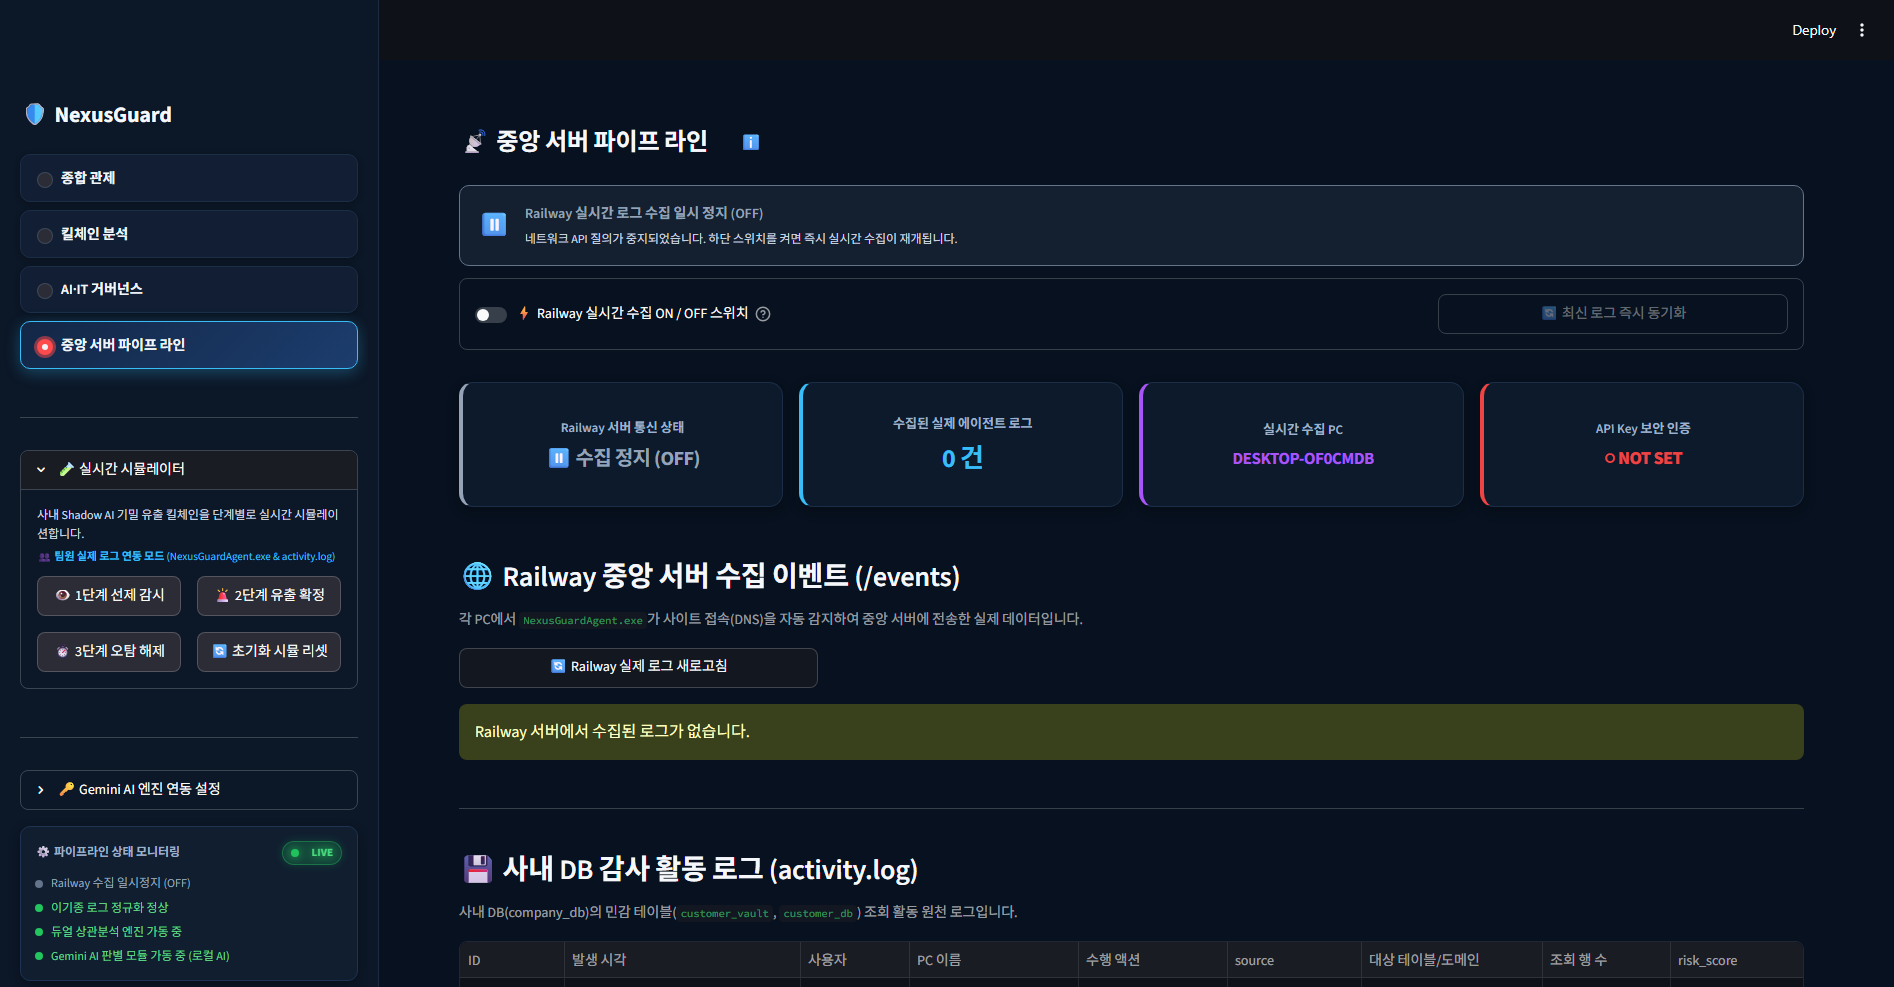
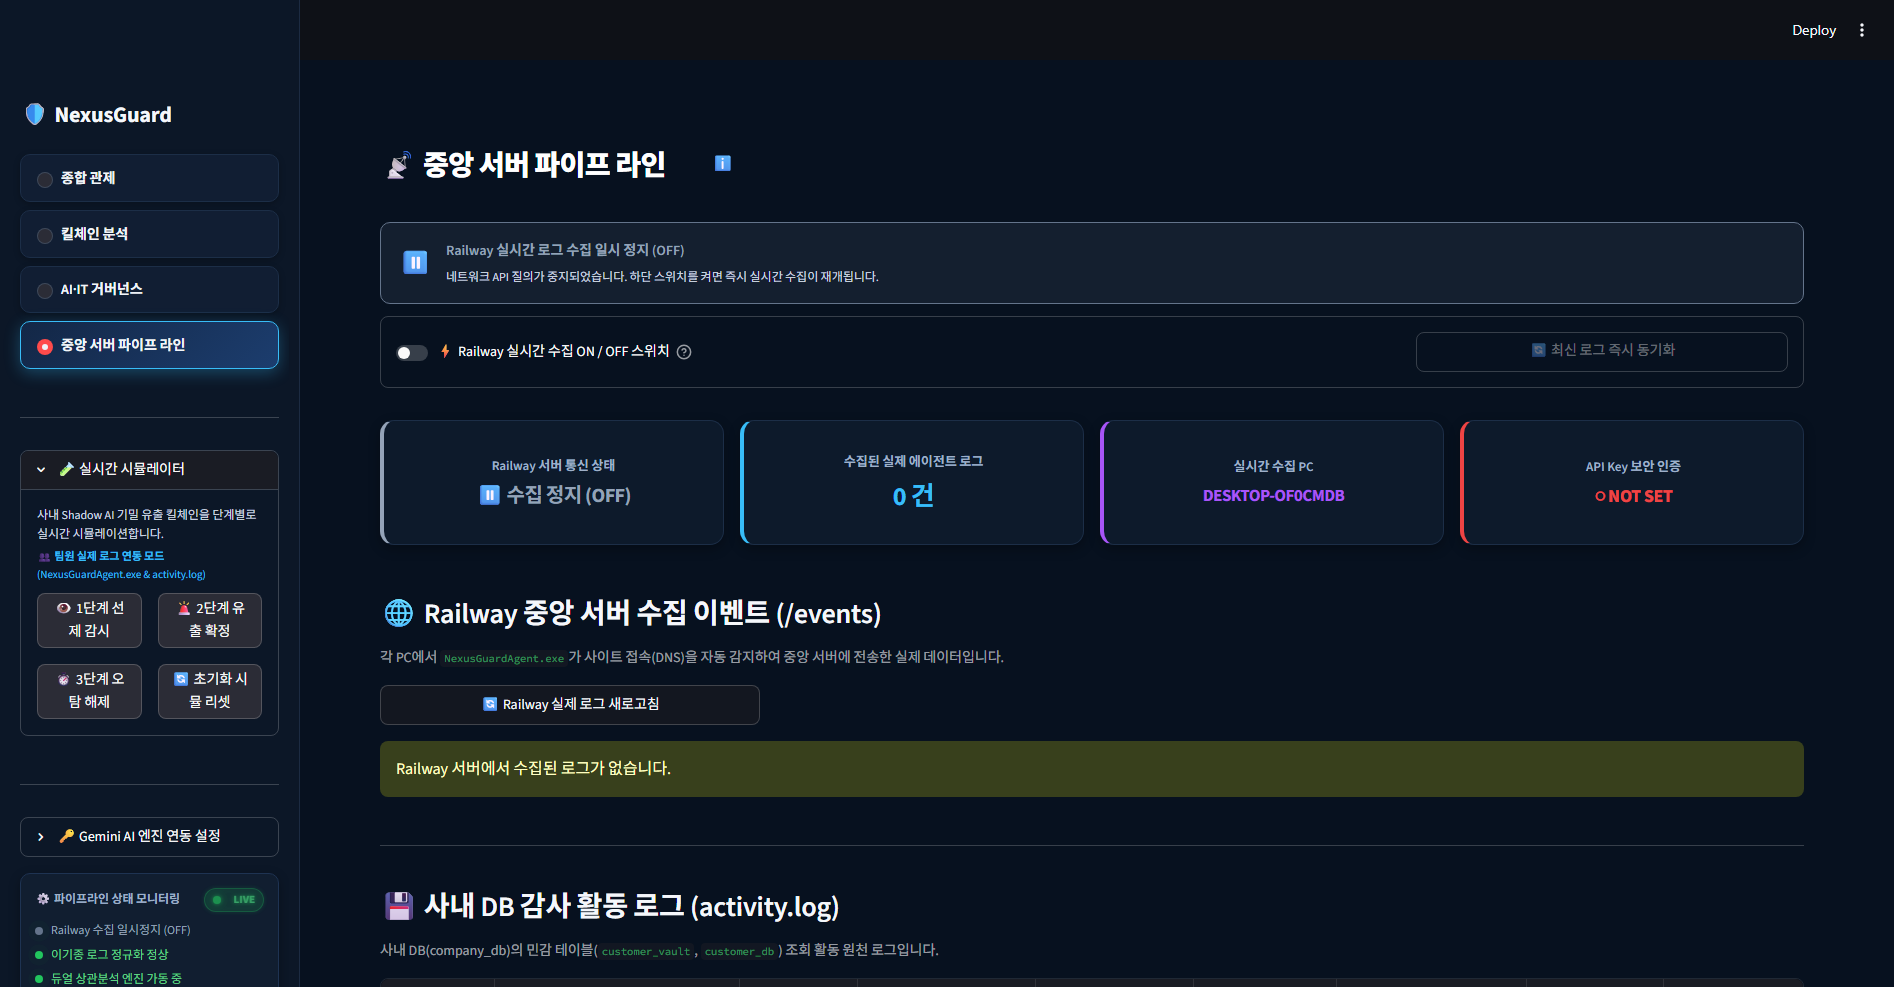
feat(ui): standardize page title sizes, smooth tooltip animations, and enable dynamic sidebar/main window resize

diff --git a/nexusguard/ui/app.py b/nexusguard/ui/app.py
@@ -38,14 +38,20 @@ st.markdown("""
         font-family: -apple-system, BlinkMacSystemFont, "Segoe UI", Roboto, Helvetica, Arial, sans-serif;
     }
     
-    /* 사이드바 */
+    /* 사이드바 기본 및 드래그 조절 반응형 스타일 */
     section[data-testid="stSidebar"] {
         background-color: #0c1727 !important;
         border-right: 1px solid #1c2b42 !important;
-        width: clamp(280px, 20vw, 380px) !important;
-        min-width: 260px !important;
-        max-width: 420px !important;
-        transition: width 0.2s ease-in-out !important;
+        min-width: 240px;
+        max-width: 750px;
+        position: relative;
+    }
+    /* 사이드바 접힘(Collapsed) 시 완벽 숨김 및 메인 창 100% 확장 보장 */
+    section[data-testid="stSidebar"][aria-expanded="false"] {
+        min-width: 0px !important;
+        max-width: 0px !important;
+        width: 0px !important;
+        transform: translateX(-100%) !important;
     }
 
     /* 🌟 사이드바 라디오 네비게이션 가로 100% 꽉 채우기 및 창 크기 반응형 */
@@ -239,16 +245,37 @@ st.markdown("""
         background-color: transparent !important;
         border: none !important;
     }
-    /* Dashboard 제목 호버 툴팁 */
+    /* =================================================== */
+    /* 🌟 모든 페이지 타이틀 헤더 규격 통일 (28px) */
+    /* =================================================== */
+    .nexus-page-title-box {
+        position: relative;
+        display: inline-flex;
+        align-items: center;
+        gap: 12px;
+        margin-bottom: 22px;
+        cursor: pointer;
+    }
+    .nexus-page-title {
+        margin: 0 !important;
+        font-size: 28px !important;
+        font-weight: 800 !important;
+        color: #ffffff !important;
+        letter-spacing: -0.5px !important;
+        line-height: 1.3 !important;
+        display: flex !important;
+        align-items: center !important;
+        gap: 10px !important;
+    }
     .dashboard-title-box {
         position: relative;
         display: inline-block;
-        margin-bottom: 20px;
+        margin-bottom: 22px;
         cursor: pointer;
     }
     .dashboard-title {
         margin: 0;
-        font-size: 38px;
+        font-size: 28px !important;
         font-weight: 800;
         color: #ffffff;
         letter-spacing: -0.5px;
@@ -262,7 +289,8 @@ st.markdown("""
         cursor: pointer;
         transition: color 0.2s;
     }
-    .dashboard-title-box:hover .dashboard-info-icon {
+    .dashboard-title-box:hover .dashboard-info-icon,
+    .nexus-page-title-box:hover .dashboard-info-icon {
         color: #38bdf8;
     }
     .dashboard-title-tooltip {
@@ -271,22 +299,29 @@ st.markdown("""
         position: absolute;
         top: calc(100% + 6px);
         left: 0;
-        background-color: #0c1c33;
+        background: rgba(12, 28, 51, 0.95) !important;
+        backdrop-filter: blur(12px) !important;
+        -webkit-backdrop-filter: blur(12px) !important;
         color: #93c5fd;
         font-size: 13px;
         font-weight: 500;
-        padding: 8px 16px;
+        padding: 9px 16px;
         border-radius: 8px;
         border: 1px solid #2563eb;
-        box-shadow: 0 10px 28px rgba(0, 0, 0, 0.8);
+        box-shadow: 0 12px 32px rgba(0, 0, 0, 0.75), 0 0 12px rgba(37, 99, 235, 0.25);
         white-space: nowrap;
         z-index: 9999;
-        transition: opacity 0.2s ease, visibility 0.2s ease;
+        transform: translateY(-4px) scale(0.98);
+        transition: opacity 0.24s cubic-bezier(0.16, 1, 0.3, 1),
+                    transform 0.24s cubic-bezier(0.16, 1, 0.3, 1),
+                    visibility 0.24s cubic-bezier(0.16, 1, 0.3, 1);
         pointer-events: none;
     }
-    .dashboard-title-box:hover .dashboard-title-tooltip {
+    .dashboard-title-box:hover .dashboard-title-tooltip,
+    .nexus-page-title-box:hover .dashboard-title-tooltip {
         visibility: visible;
         opacity: 1;
+        transform: translateY(0) scale(1);
     }
 
     /* 통합 인시던트 선택기 단일 박스 컨테이너 */
@@ -366,7 +401,7 @@ st.markdown("""
     }
 
     /* =================================================== */
-    /* 💬 마우스 커서 호버 시 팝업(Tooltip) 스타일 */
+    /* 💬 마우스 커서 호버 시 팝업(Tooltip) 부드러운 애니메이션 스타일 */
     /* =================================================== */
     .tooltip-container {
         position: relative;
@@ -378,32 +413,37 @@ st.markdown("""
         display: inline-flex;
         align-items: center;
         justify-content: center;
-        transition: transform 0.2s ease;
+        transition: transform 0.22s cubic-bezier(0.16, 1, 0.3, 1), filter 0.22s ease !important;
     }
     .tooltip-container:hover .tooltip-icon {
-        transform: scale(1.15);
+        transform: scale(1.18);
+        filter: drop-shadow(0 0 6px #38bdf8);
     }
     .tooltip-popup {
         visibility: hidden;
         opacity: 0;
         width: max-content;
-        max-width: 320px;
-        background: #0b1728;
+        max-width: 340px;
+        background: rgba(11, 23, 40, 0.95) !important;
+        backdrop-filter: blur(12px) !important;
+        -webkit-backdrop-filter: blur(12px) !important;
         color: #f1f5f9;
         text-align: left;
         border-radius: 8px;
-        padding: 10px 14px;
+        padding: 10px 15px;
         border: 1px solid #38bdf8;
-        box-shadow: 0 10px 28px rgba(0, 0, 0, 0.75);
-        font-size: 12px;
+        box-shadow: 0 12px 32px rgba(0, 0, 0, 0.75), 0 0 14px rgba(56, 189, 248, 0.25);
+        font-size: 12.5px;
         font-weight: 500;
         line-height: 1.5;
         position: absolute;
         z-index: 99999;
         bottom: 135%;
         left: 50%;
-        transform: translateX(-50%);
-        transition: opacity 0.22s ease-in-out, visibility 0.22s ease-in-out;
+        transform: translate(-50%, 6px) scale(0.96);
+        transition: opacity 0.24s cubic-bezier(0.16, 1, 0.3, 1),
+                    transform 0.24s cubic-bezier(0.16, 1, 0.3, 1),
+                    visibility 0.24s cubic-bezier(0.16, 1, 0.3, 1) !important;
         pointer-events: none;
     }
     .tooltip-popup::after {
@@ -419,6 +459,24 @@ st.markdown("""
     .tooltip-container:hover .tooltip-popup {
         visibility: visible;
         opacity: 1;
+        transform: translate(-50%, 0) scale(1);
+    }
+
+    /* Streamlit 내장 툴팁 (help=...) 부드러운 페이드인 애니메이션 */
+    div[data-baseweb="tooltip"] {
+        animation: smooth-tooltip-fade 0.22s cubic-bezier(0.16, 1, 0.3, 1) forwards !important;
+        backdrop-filter: blur(8px) !important;
+        border-radius: 8px !important;
+    }
+    @keyframes smooth-tooltip-fade {
+        0% {
+            opacity: 0;
+            transform: translateY(4px) scale(0.97);
+        }
+        100% {
+            opacity: 1;
+            transform: translateY(0) scale(1);
+        }
     }
 
     /* =================================================== */
@@ -674,6 +732,95 @@ st.markdown("""
     }
 </style>
 """, unsafe_allow_html=True)
+
+# 2-1. 사이드바 실시간 드래그 크기 조절 & 메인 창 동적 연동 핸들러 주입
+components.html("""
+<script>
+(function() {
+    const parentDoc = window.parent.document;
+    function setupResizer() {
+        const sidebar = parentDoc.querySelector('section[data-testid="stSidebar"]');
+        if (!sidebar) return;
+
+        // 이미 핸들이 주입되어 있다면 재등록 방지
+        if (sidebar.querySelector('#sidebar-drag-handle')) return;
+
+        const handle = parentDoc.createElement('div');
+        handle.id = 'sidebar-drag-handle';
+        handle.title = '좌우로 드래그하여 사이드바 및 메인 창 크기를 조절할 수 있습니다';
+        handle.style.cssText = `
+            position: absolute;
+            top: 0;
+            right: -3px;
+            width: 7px;
+            height: 100%;
+            cursor: col-resize;
+            z-index: 999999;
+            background: transparent;
+            transition: background 0.2s ease;
+        `;
+
+        handle.addEventListener('mouseenter', () => {
+            handle.style.background = 'rgba(56, 189, 248, 0.5)';
+        });
+        handle.addEventListener('mouseleave', () => {
+            if (!isDragging) handle.style.background = 'transparent';
+        });
+
+        let isDragging = false;
+        let startX = 0;
+        let startWidth = 0;
+
+        handle.addEventListener('mousedown', (e) => {
+            isDragging = true;
+            startX = e.clientX;
+            startWidth = sidebar.offsetWidth;
+            handle.style.background = '#38bdf8';
+            parentDoc.body.style.cursor = 'col-resize';
+            parentDoc.body.style.userSelect = 'none';
+            e.preventDefault();
+            e.stopPropagation();
+        });
+
+        parentDoc.addEventListener('mousemove', (e) => {
+            if (!isDragging) return;
+            const delta = e.clientX - startX;
+            const newWidth = Math.min(Math.max(startWidth + delta, 240), 750);
+            sidebar.style.setProperty('width', newWidth + 'px', 'important');
+            sidebar.style.setProperty('min-width', newWidth + 'px', 'important');
+            sidebar.style.setProperty('max-width', newWidth + 'px', 'important');
+            sidebar.style.setProperty('transition', 'none', 'important');
+            sessionStorage.setItem('nexusguard_sb_width', newWidth);
+        });
+
+        parentDoc.addEventListener('mouseup', () => {
+            if (isDragging) {
+                isDragging = false;
+                handle.style.background = 'transparent';
+                parentDoc.body.style.cursor = '';
+                parentDoc.body.style.userSelect = '';
+            }
+        });
+
+        sidebar.appendChild(handle);
+
+        // 이전 저장된 사이드바 폭 복원 (접힘 상태가 아닐 때만)
+        const saved = sessionStorage.getItem('nexusguard_sb_width');
+        const isCollapsed = sidebar.getAttribute('aria-expanded') === 'false';
+        if (saved && !isCollapsed) {
+            const w = Math.min(Math.max(parseInt(saved, 10), 240), 750);
+            sidebar.style.setProperty('width', w + 'px', 'important');
+            sidebar.style.setProperty('min-width', w + 'px', 'important');
+            sidebar.style.setProperty('max-width', w + 'px', 'important');
+        }
+    }
+
+    setupResizer();
+    const observer = new MutationObserver(setupResizer);
+    observer.observe(parentDoc.body, { childList: true, subtree: true });
+})();
+</script>
+""", height=0, width=0)
 
 # 3. 툴팁 헬퍼 함수
 def tooltip(icon: str, title: str, desc: str) -> str:
@@ -1683,9 +1830,9 @@ def render_interactive_map(svg_markup: str):
 
 if menu == "종합 관제":
     st.markdown("""
-    <div class="dashboard-title-box">
-        <h1 class="dashboard-title">
-            Dashboard <span class="dashboard-info-icon" title="마우스를 올리면 시스템 설명이 표시됩니다">ℹ</span>
+    <div class="nexus-page-title-box">
+        <h1 class="nexus-page-title">
+            🛡 종합 관제 (Dashboard) <span class="dashboard-info-icon" title="마우스를 올리면 시스템 설명이 표시됩니다">ℹ</span>
         </h1>
         <div class="dashboard-title-tooltip">
             🛡 실시간 이기종 로그 연계 침해사고 재구성 및 내부 데이터 거버넌스 모니터링 (Zero Trust XDR)
@@ -1951,7 +2098,11 @@ if menu == "종합 관제":
 # VIEW 2: 킬체인 분석 (Lateral Movement)
 # ==========================================
 elif menu == "킬체인 분석":
-    st.markdown("<h2 style='white-space:nowrap; margin-bottom:14px;'>🎯 외부 침투 및 침해사고 심층 분석</h2>", unsafe_allow_html=True)
+    st.markdown("""
+    <div class="nexus-page-title-box">
+        <h1 class="nexus-page-title">🎯 외부 침투 및 침해사고 심층 분석</h1>
+    </div>
+    """, unsafe_allow_html=True)
 
     incident_ids = [inc.incident_id for inc in incidents]
     curr_target_id = st.session_state.get("selected_incident_id", incidents[0].incident_id)
@@ -2084,7 +2235,11 @@ elif menu == "킬체인 분석":
 # VIEW 3: AI·IT 거버넌스 (Shadow IT/AI)
 # ==========================================
 elif menu == "AI·IT 거버넌스":
-    st.markdown("<h2>🤖 사내 섀도우 IT 및 생성형 AI 거버넌스 대시보드</h2>", unsafe_allow_html=True)
+    st.markdown("""
+    <div class="nexus-page-title-box">
+        <h1 class="nexus-page-title">🤖 사내 섀도우 IT 및 생성형 AI 거버넌스 대시보드</h1>
+    </div>
+    """, unsafe_allow_html=True)
 
     # ⚡ Gemini AI 실시간 미등록 외부 도메인 진단기 (오픈형 인라인 바)
     st.markdown("""
@@ -2188,8 +2343,8 @@ elif menu == "중앙 서버 파이프 라인":
     )
 
     st.markdown(f"""
-    <div style="display:flex; align-items:center; gap:8px; margin-bottom: 12px;">
-        <h2 style="margin:0; font-size:24px; font-weight:700;">📡 중앙 서버 파이프 라인</h2>
+    <div class="nexus-page-title-box">
+        <h1 class="nexus-page-title">📡 중앙 서버 파이프 라인</h1>
         {tooltip("ℹ", "중앙 서버 파이프 라인 연동 가이드", "팀원들이 개발한 Windows Agent(NexusGuardAgent.exe)와 Railway 클라우드 중앙 서버(Flask + PostgreSQL)의 실시간 수집 현황 및 연동 가이드입니다.")}
     </div>
     """, unsafe_allow_html=True)
